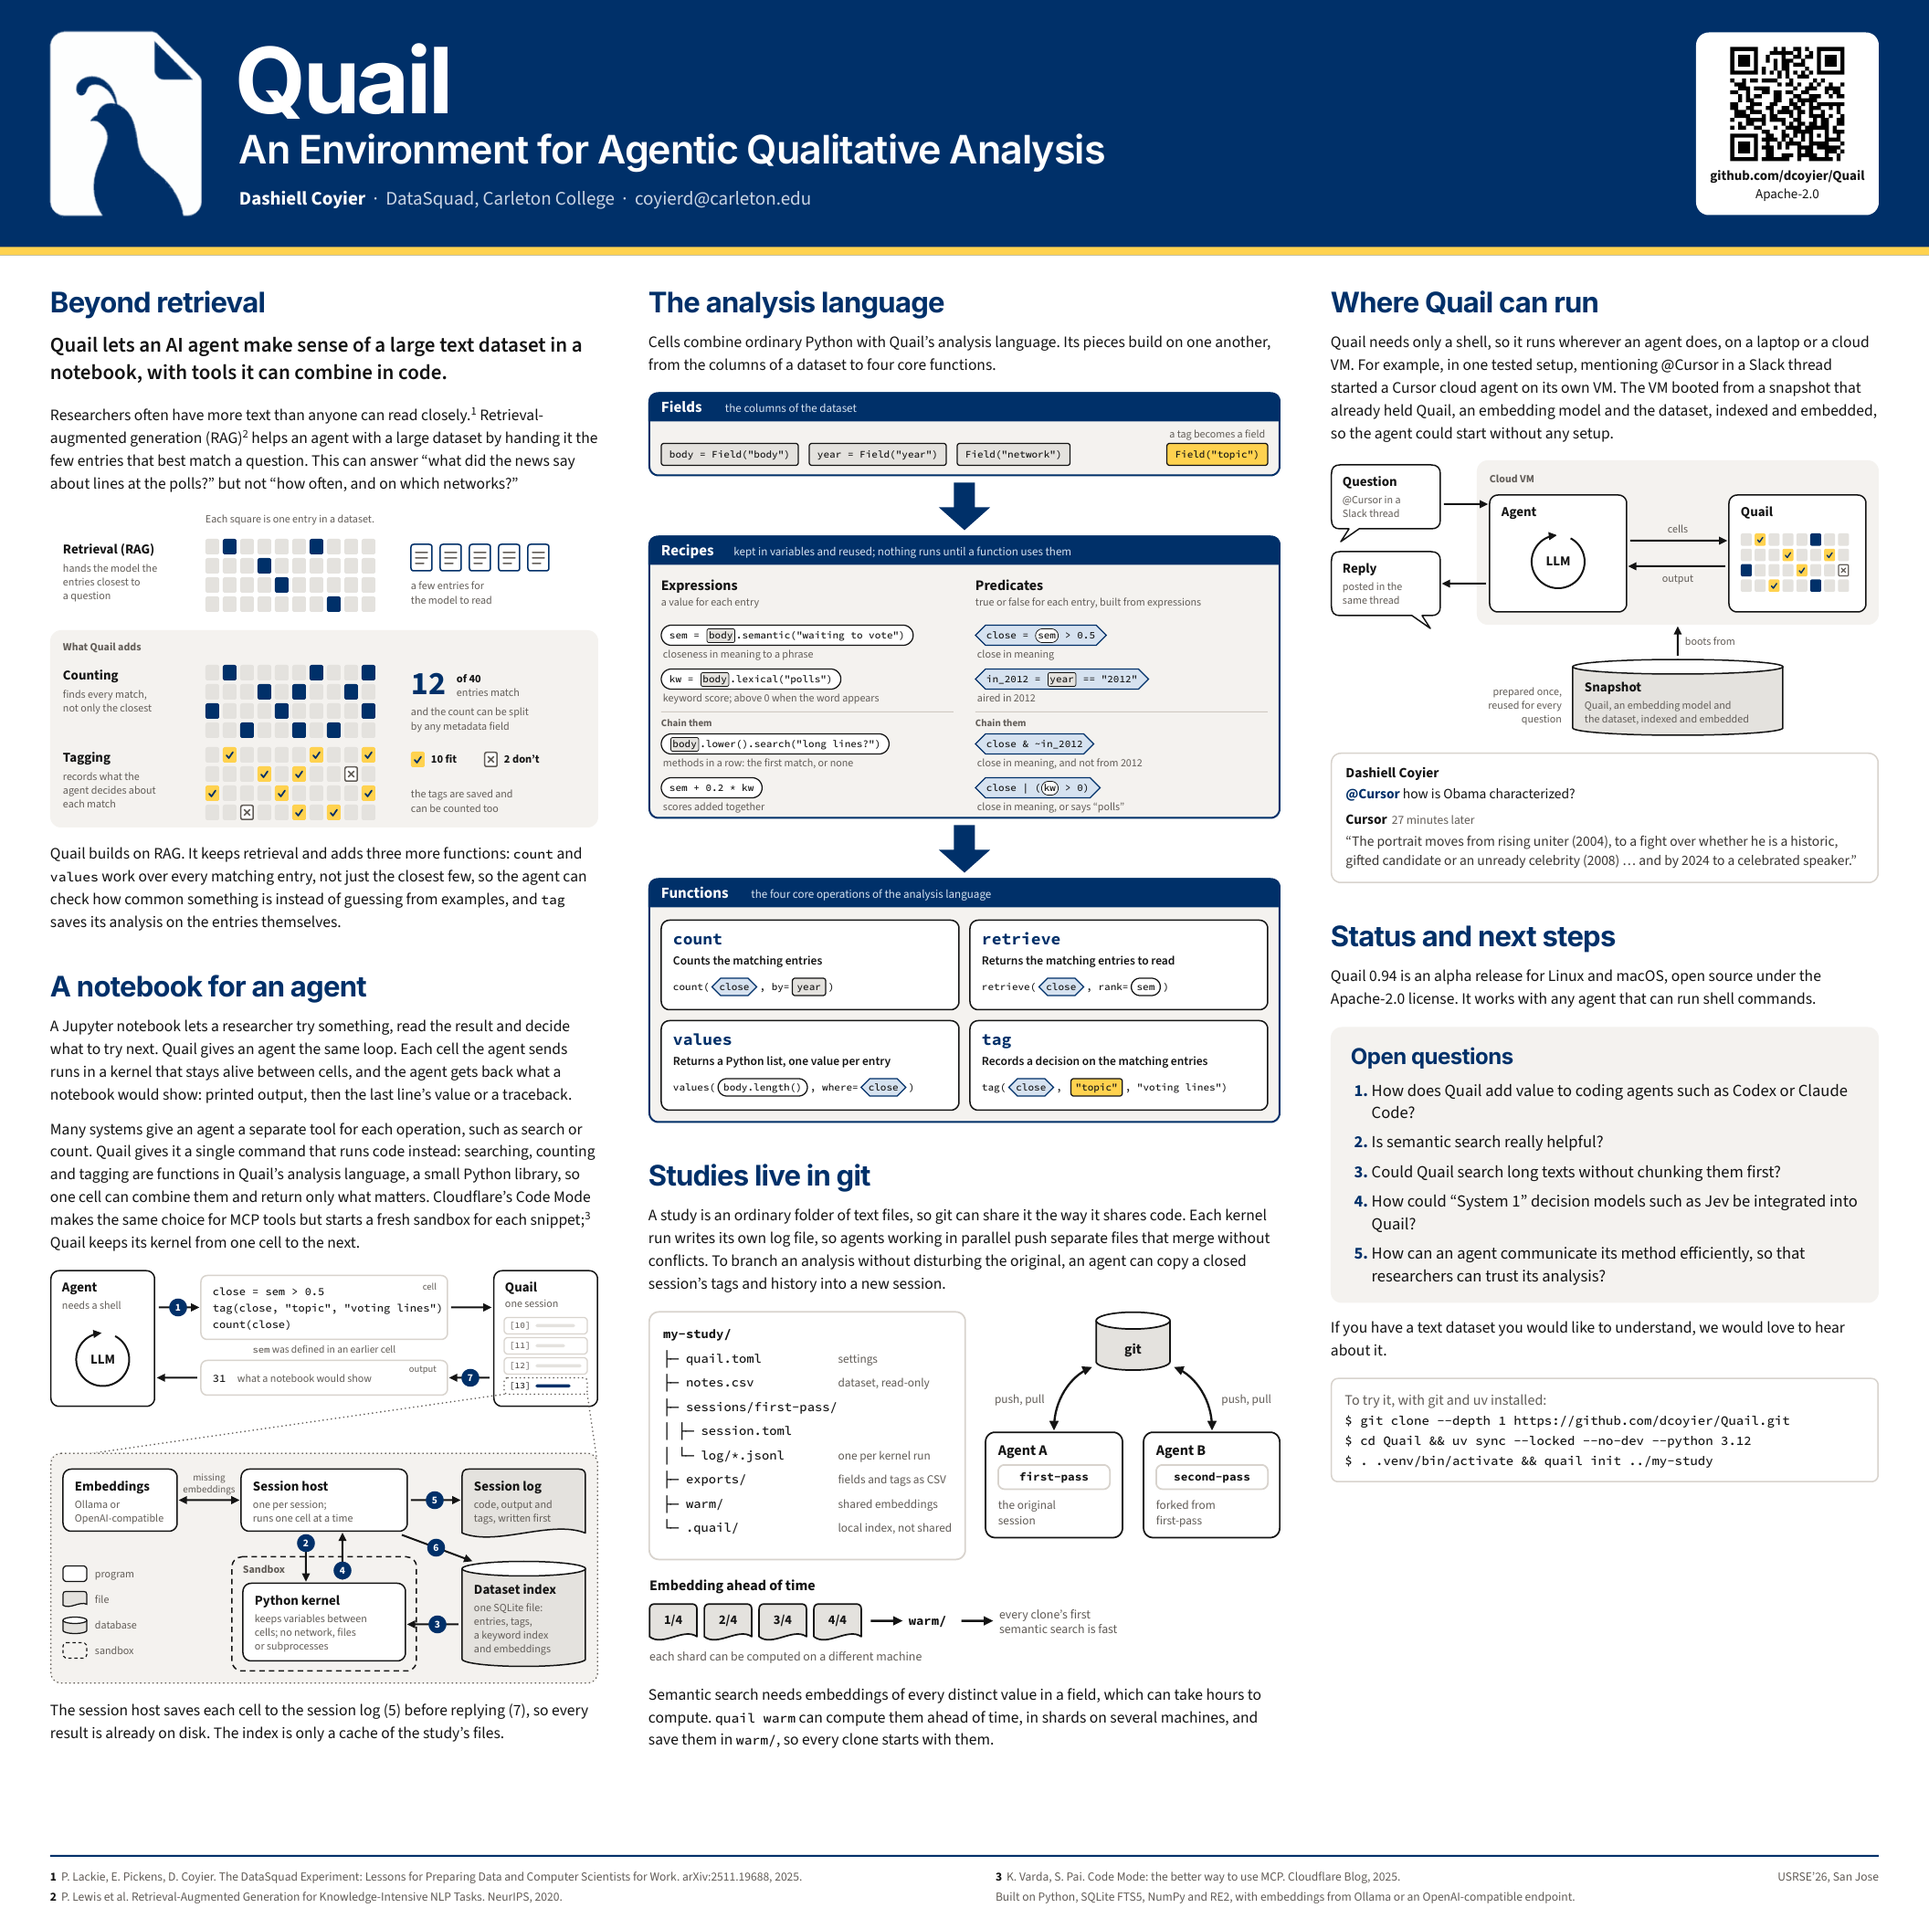
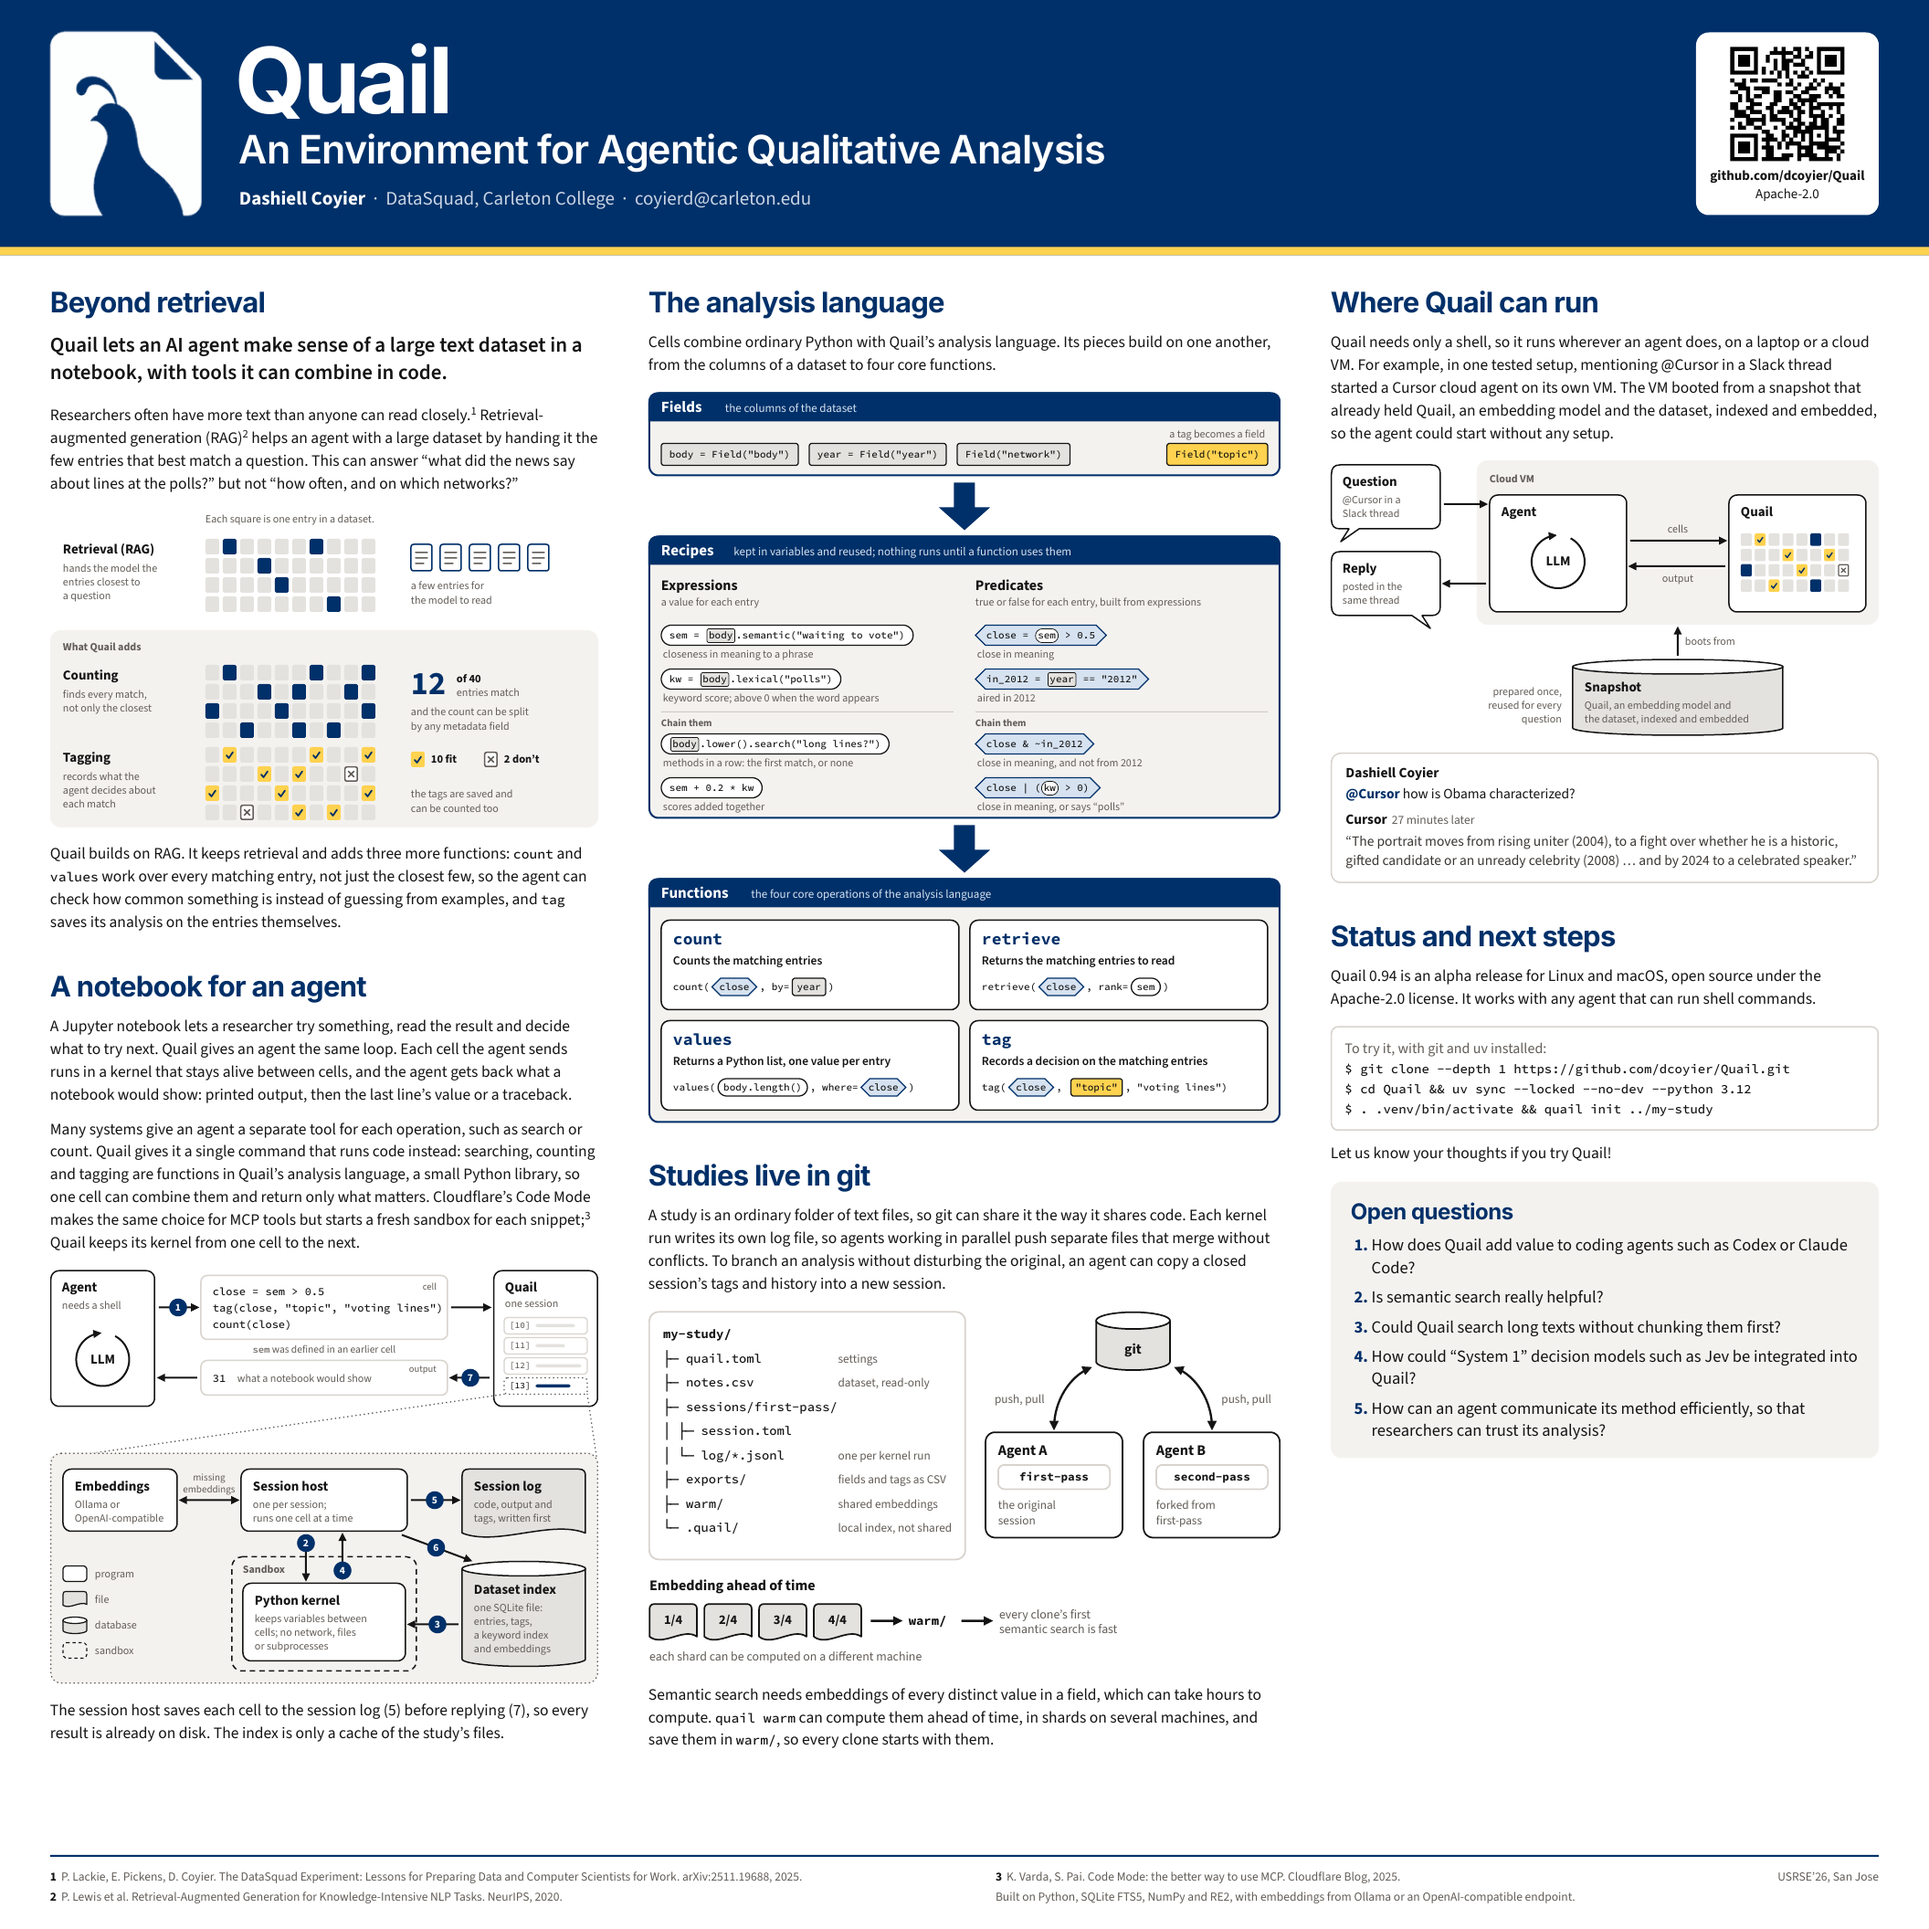
Put the install snippet before the open questions
"Status and next steps" now runs: the release sentences, the install
snippet, "Let us know your thoughts if you try Quail!", then the open
questions, which can grow into the space below. The line inviting
people with a text dataset is gone.

Claude-Session: https://claude.ai/code/session_01ChZ8DmmKvsKSV4JFVieZLU

Changed region(s): [[0.6875, 0.5312, 0.9688, 0.75]]

diff --git a/poster/poster.html b/poster/poster.html
@@ -76,6 +76,11 @@
 <section id="status">
   <h2>Status and next steps</h2>
   <p>Quail 0.94 is an alpha release for Linux and macOS, open source under the Apache-2.0 license. It works with any agent that can run shell commands.</p>
+  <div class="term"><span class="cmt">To try it, with git and uv installed:</span>
+$ git clone --depth 1 https://github.com/dcoyier/Quail.git
+$ cd Quail &amp;&amp; uv sync --locked --no-dev --python 3.12
+$ . .venv/bin/activate &amp;&amp; quail init ../my-study</div>
+  <p class="after-term">Let us know your thoughts if you try Quail!</p>
   <div class="questions">
     <h3>Open questions</h3>
     <ol>
@@ -86,11 +91,6 @@
       <li>How can an agent communicate its method efficiently, so that researchers can trust its analysis?</li>
     </ol>
   </div>
-  <p>If you have a text dataset you would like to understand, we would love to hear about it.</p>
-  <div class="term"><span class="cmt">To try it, with git and uv installed:</span>
-$ git clone --depth 1 https://github.com/dcoyier/Quail.git
-$ cd Quail &amp;&amp; uv sync --locked --no-dev --python 3.12
-$ . .venv/bin/activate &amp;&amp; quail init ../my-study</div>
 </section>
 
 </div>

diff --git a/poster/poster.css b/poster/poster.css
@@ -201,6 +201,7 @@ table.lang td:first-child { width: 600px; padding-right: 24px; font-family: var(
   white-space: pre;
   font-variant-ligatures: none;
 }
+.after-term { margin-top: 26px; }
 .term .cmt { font-family: var(--sans); font-size: 32px; color: var(--muted); }
 
 footer {
